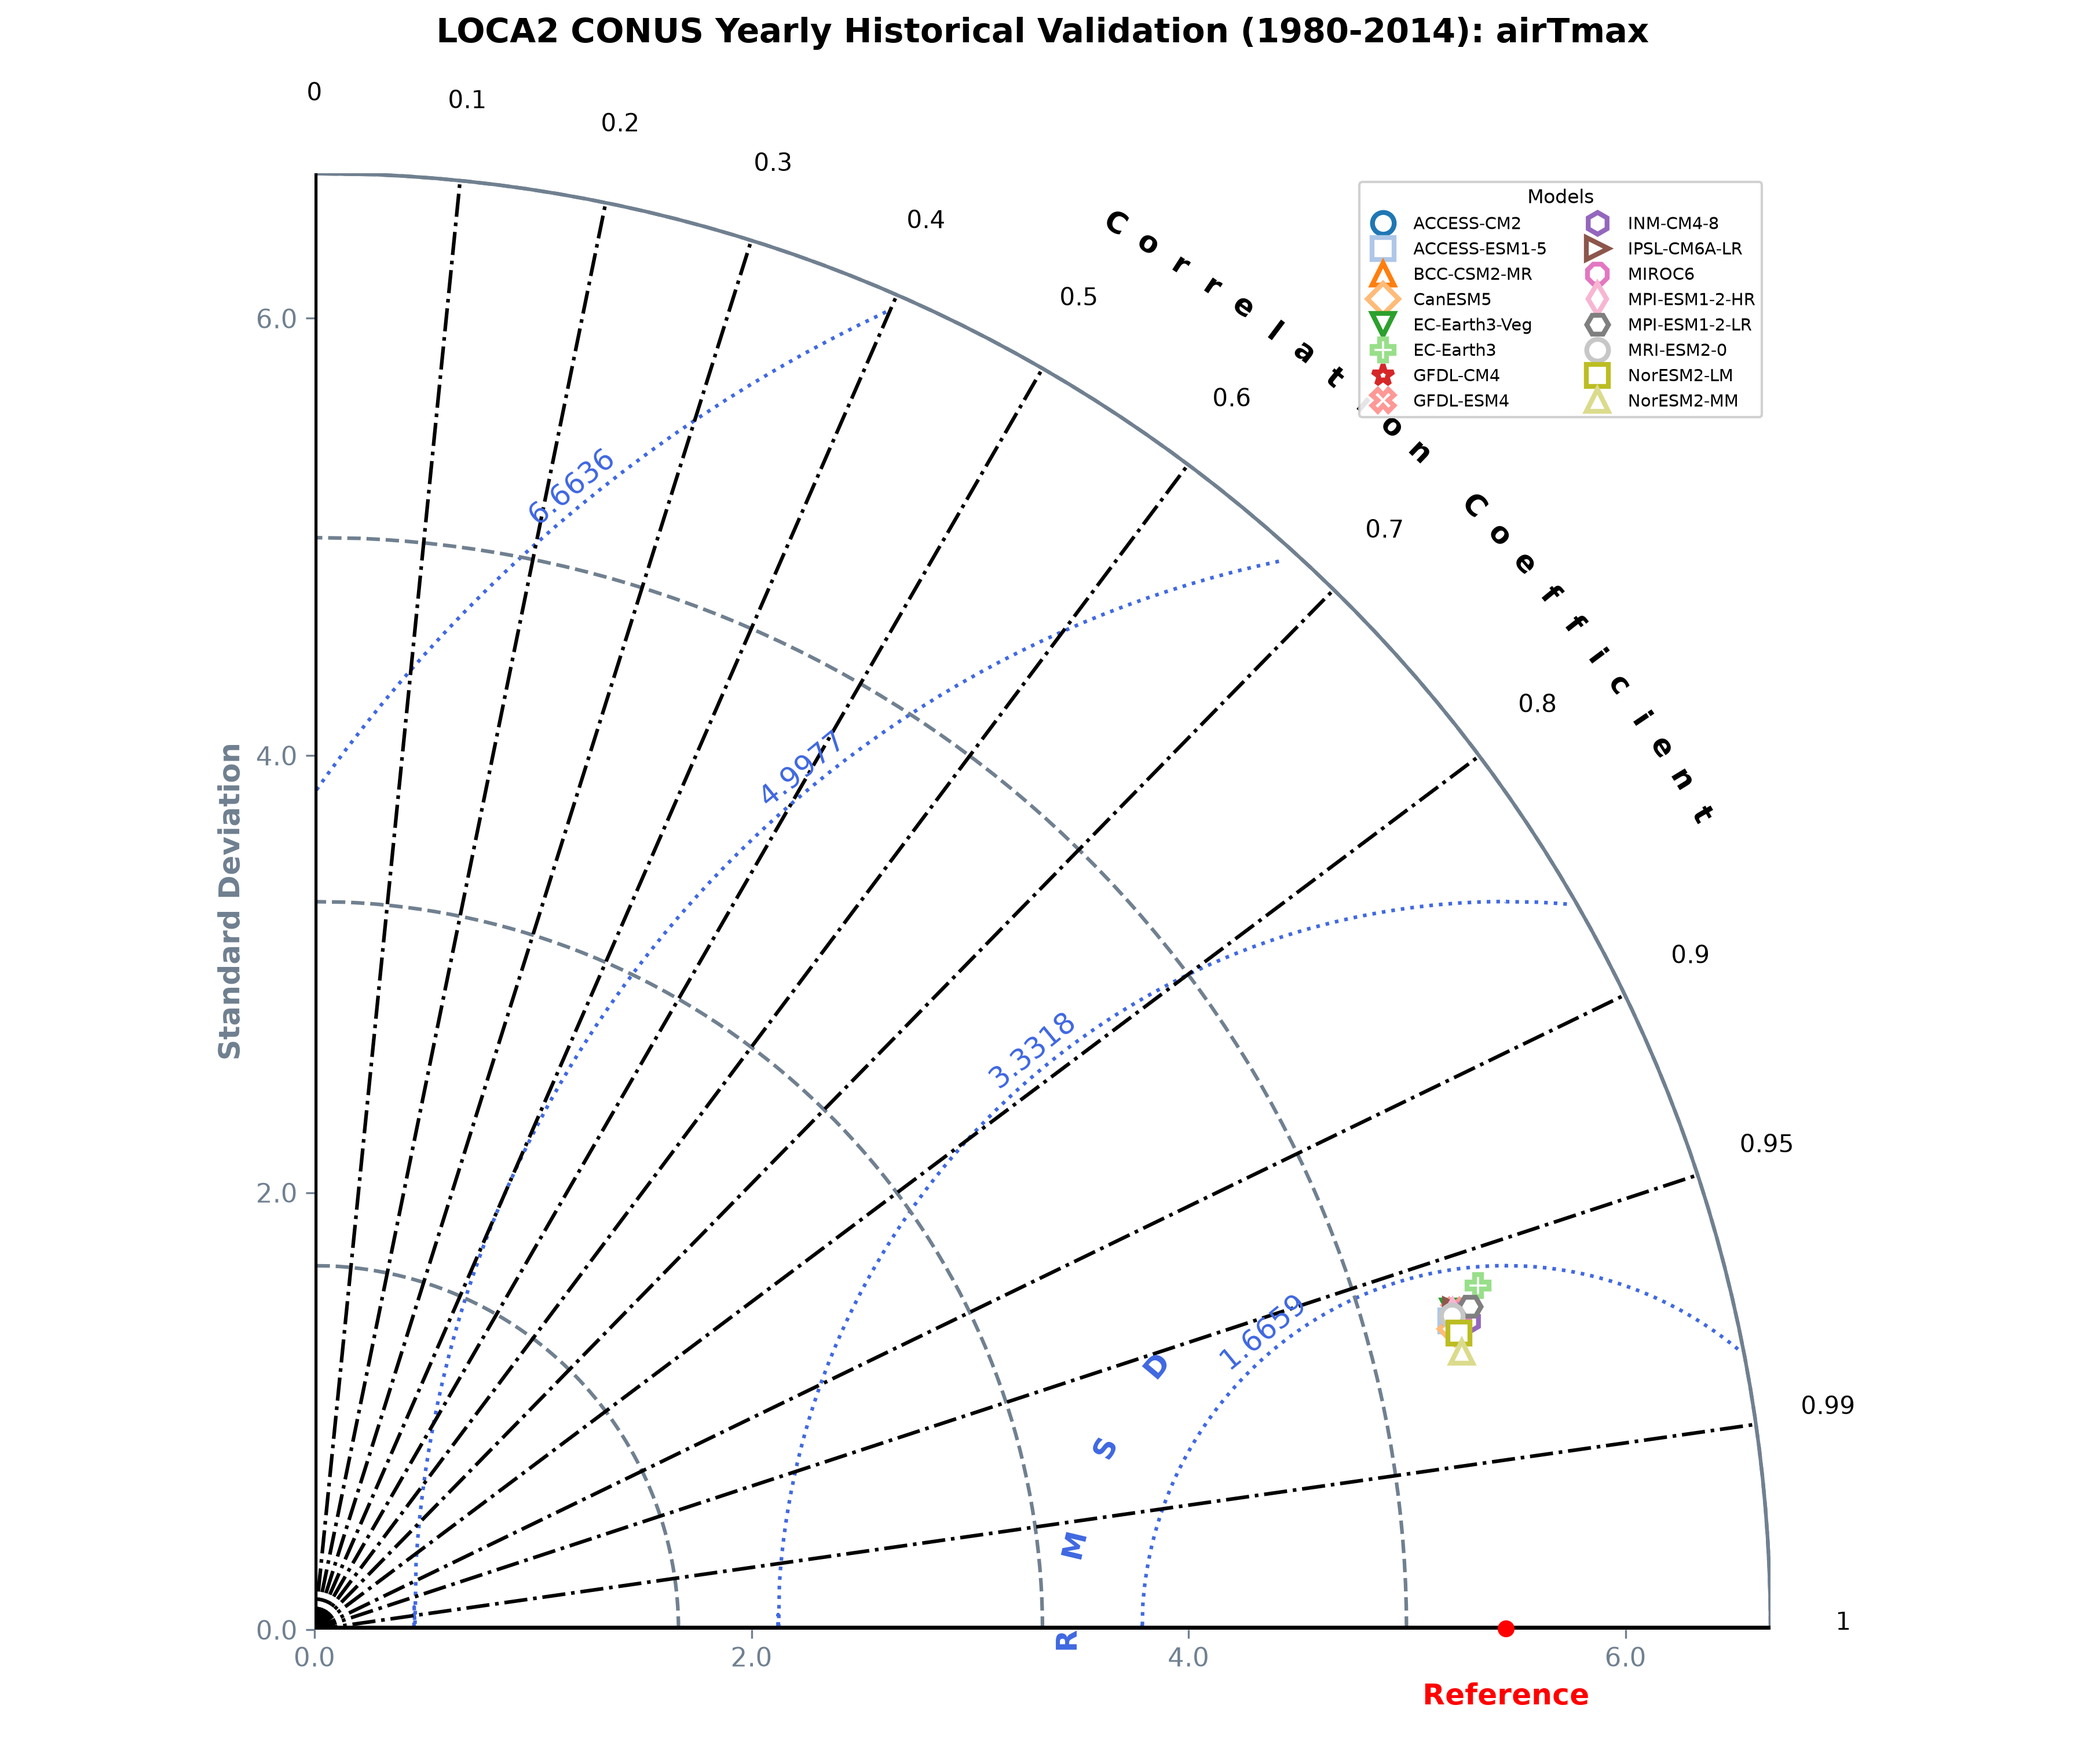
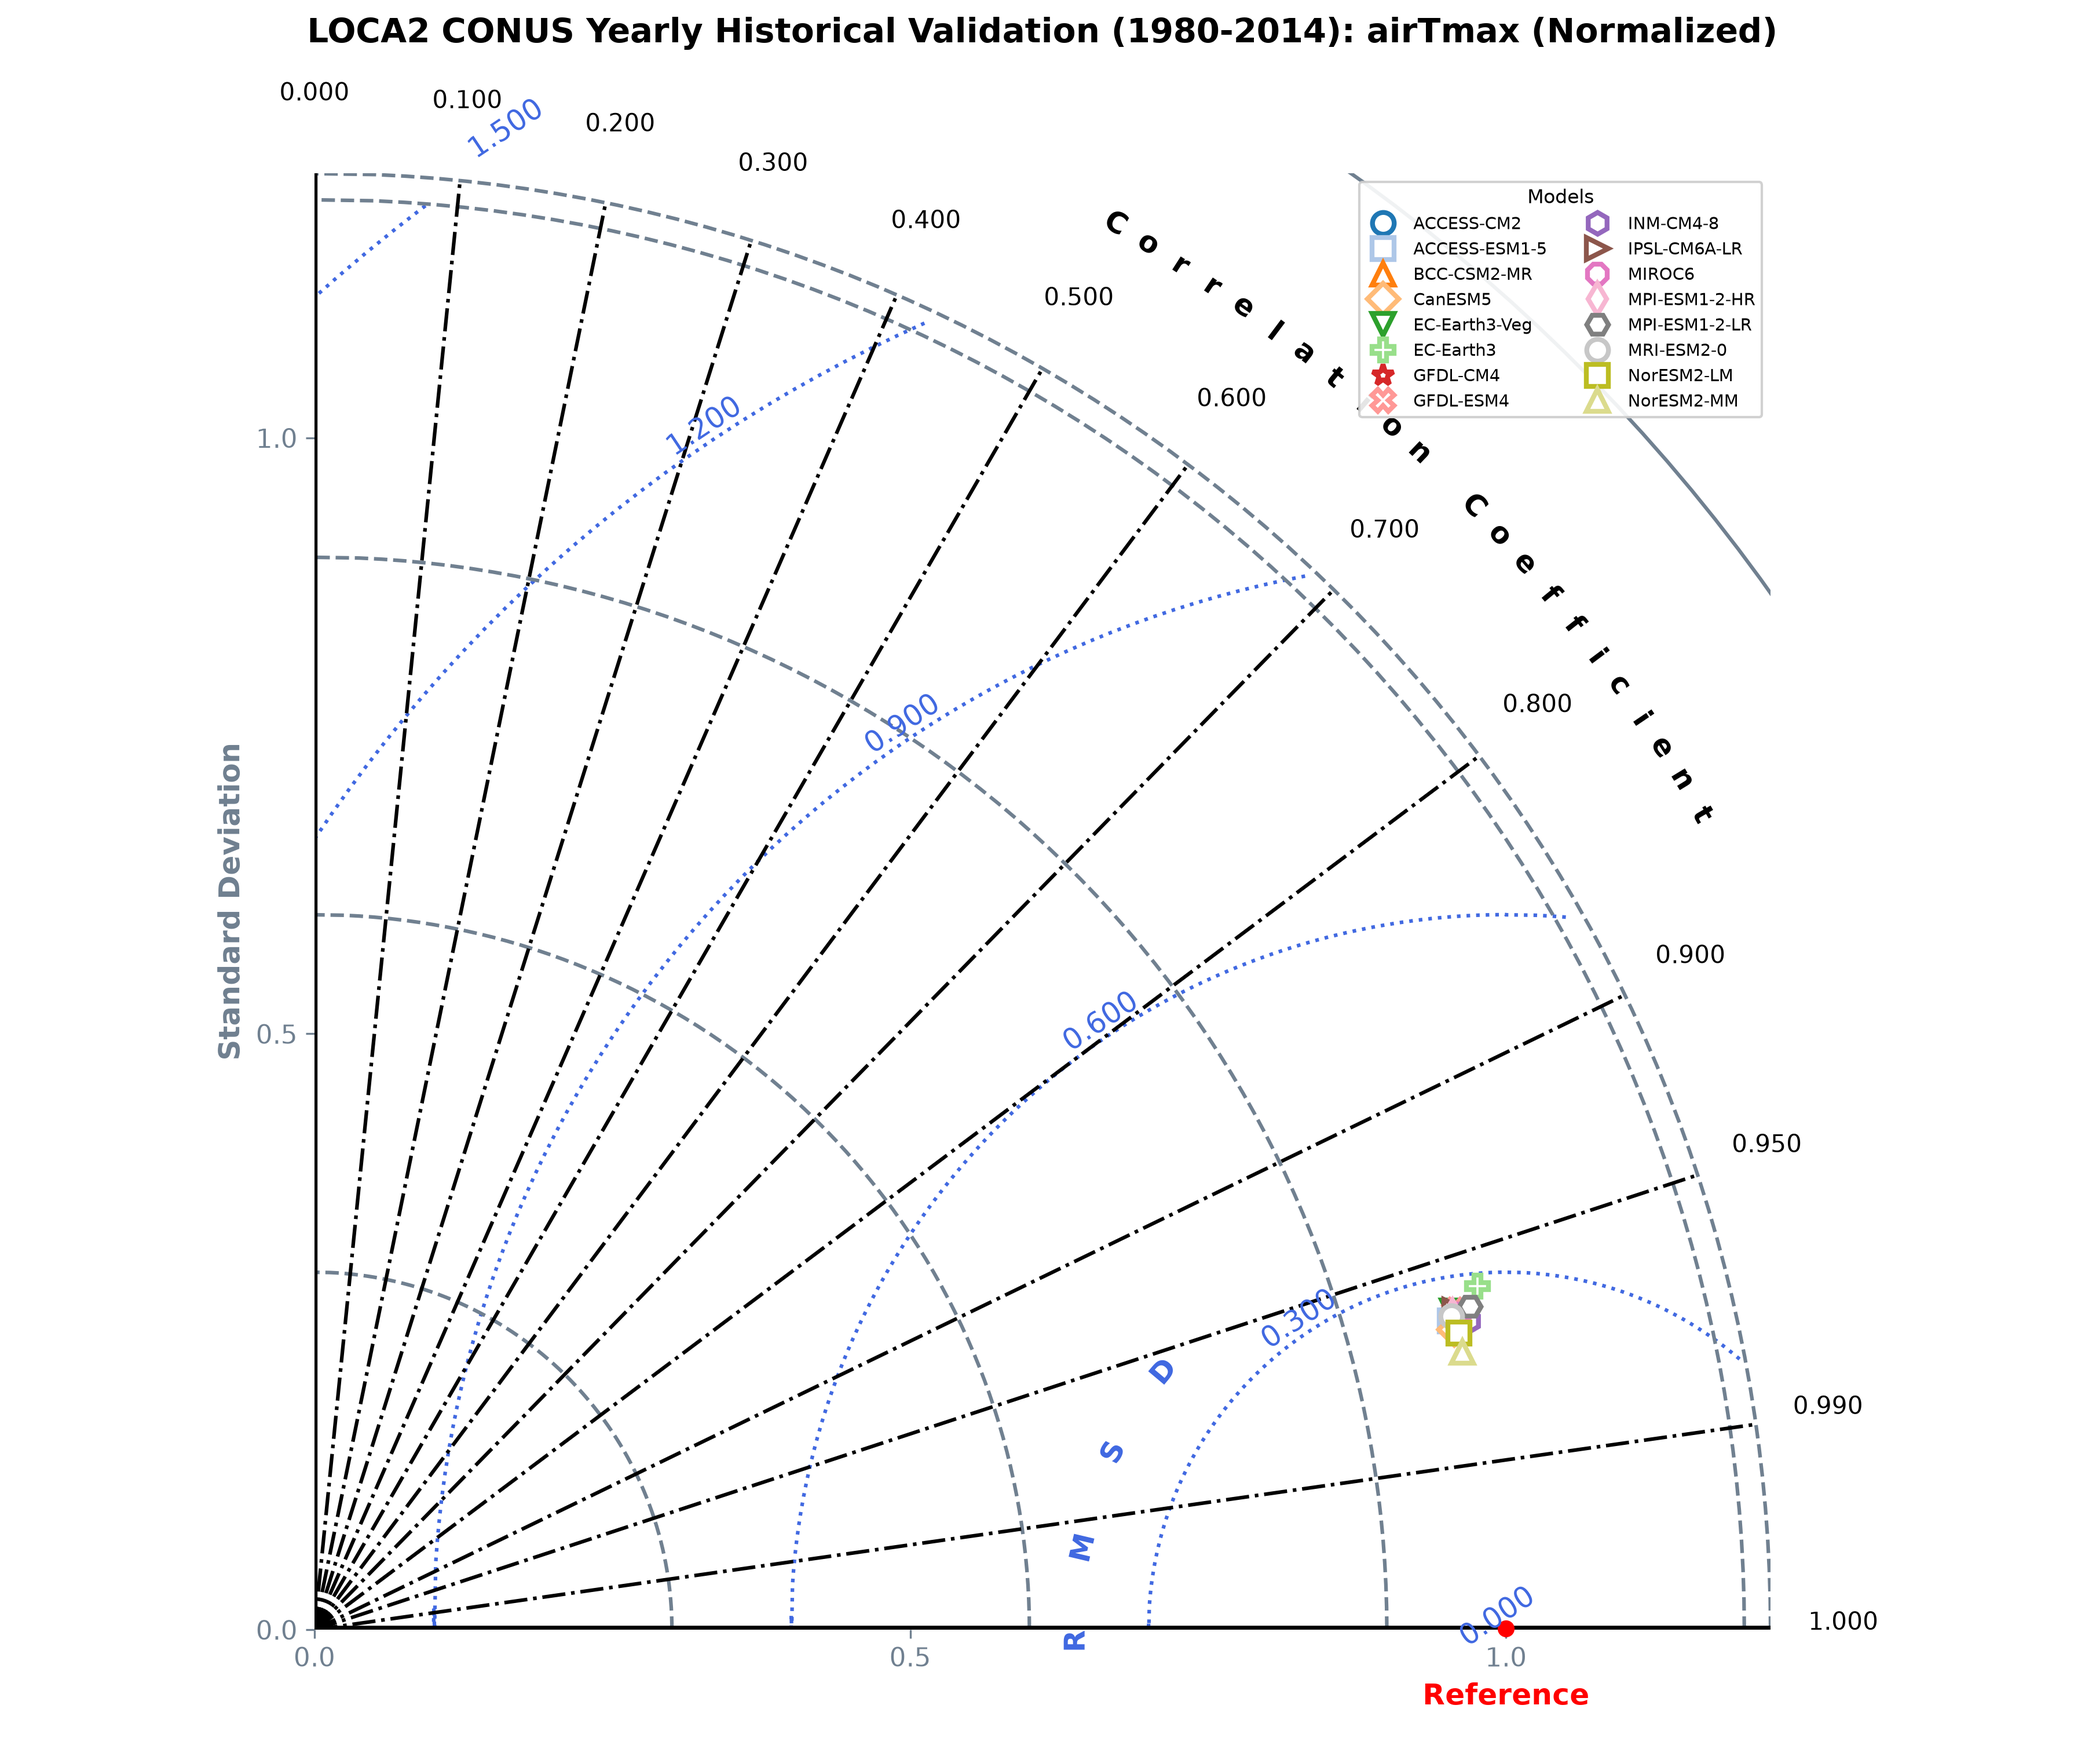
Normalized sdev/CRMSE to the observed sdev for CONUS Taylor diagrams

diff --git a/conus_yearly_taylor_diagrams.py b/conus_yearly_taylor_diagrams.py
@@ -113,7 +113,7 @@ def clip_to_conus(da_or_ds, conus_geom, lat_name=None, lon_name=None, all_touche
 
 
 def normalize_precip_units(da, label):
-    # Express precipitation as a daily rate (mm/day), matching the
+    # Express precipitation as a daily rate (mm/day)
     units = da.attrs.get('units')
     sample_mean = float(da.isel(time=slice(0, 1)).mean(skipna=True))
     print(f"    [units check] {label}: units='{units}', sample monthly mean={sample_mean:.4f}")
@@ -134,8 +134,33 @@ def normalize_precip_units(da, label):
     return da
 
 
+def normalize_temp_units(da, label):
+    # Express temperature in degrees Celsius (Kelvin is the usual culprit)
+    units = da.attrs.get('units')
+    sample_mean = float(da.isel(time=slice(0, 1)).mean(skipna=True))
+    print(f"    [units check] {label}: units='{units}', sample monthly mean={sample_mean:.4f}")
+
+    kelvin_units = {'K', 'Kelvin', 'kelvin', 'degK', 'deg_K'}
+    celsius_units = {'degC', 'C', 'Celsius', 'celsius', 'deg_C', 'degree_Celsius'}
+    fahrenheit_units = {'degF', 'F', 'Fahrenheit', 'fahrenheit'}
+
+    if units in kelvin_units:
+        print(f"    [units check] {label}: converting Kelvin -> degC")
+        return da - 273.15
+    if units in fahrenheit_units:
+        print(f"    [units check] {label}: converting Fahrenheit -> degC")
+        return (da - 32) * (5.0 / 9.0)
+    if units in celsius_units:
+        print(f"    [units check] {label}: already degC, no conversion needed")
+        return da
+    if sample_mean > 100:
+        print(f"    [units check] {label}: units unlabeled but magnitude suggests Kelvin -> converting to degC")
+        return da - 273.15
+    return da
+
+
 def get_area_weights(da, lat_name=None):
-    # cos(latitude) area weights, broadcast to da's full shape.
+    # cos(latitude) area weights, broadcast to da's full shape
     if lat_name is None:
         lat_name = 'lat' if 'lat' in da.coords else 'latitude'
     w = np.cos(np.deg2rad(da[lat_name]))
@@ -164,6 +189,32 @@ def weighted_taylor_stats(t, r, w):
     crmsd = float(np.sqrt(max(sdev_t ** 2 + sdev_r ** 2 - 2 * sdev_t * sdev_r * pc, 0.0)))
 
     return float(sdev_t), float(sdev_r), pc, crmsd
+
+
+def make_nice_ticks(max_val, n_ticks=5, decimals=3):
+    # Evenly-spaced, cleanly-rounded ticks so STD/RMS gridlines and RMS arc
+    if max_val <= 0:
+        return np.array([0.0])
+    raw_step = max_val / n_ticks
+    magnitude = 10 ** np.floor(np.log10(raw_step))
+    nice_step = np.ceil(raw_step / magnitude) * magnitude
+    ticks = np.round(np.arange(0, nice_step * (n_ticks + 1), nice_step), decimals)
+    return ticks[ticks <= max_val * 1.3]
+
+
+def clean_numeric_text(ax, decimals=3):
+    # Reformat any numeric-looking text artist on the axes (tick labels AND
+    # inline contour/arc labels) to a fixed number of decimals
+    candidates = list(ax.texts) + list(ax.get_xticklabels()) + list(ax.get_yticklabels())
+    for text_obj in candidates:
+        txt = text_obj.get_text().strip()
+        if not txt:
+            continue
+        try:
+            val = float(txt)
+        except ValueError:
+            continue
+        text_obj.set_text(f"{val:.{decimals}f}")
 
 
 def aggregate_yearly(da, operation):
@@ -203,6 +254,8 @@ for var, operation in variables_config.items():
 
         if var == 'precip':
             livneh_da = normalize_precip_units(livneh_da, "Livneh")
+        elif var in ('airTmax', 'airTmin'):
+            livneh_da = normalize_temp_units(livneh_da, "Livneh")
 
         livneh_yearly = aggregate_yearly(livneh_da, operation)
 
@@ -229,8 +282,13 @@ for var, operation in variables_config.items():
     obs_wvar = np.sum(obs_weights_clean * (obs_clean - obs_wmean) ** 2) / obs_wsum
     baseline_sdev = float(np.sqrt(obs_wvar))
 
-    # initialize SkillMetrics tracking lists w/ baseline perfect score
-    sdev_list = [baseline_sdev]
+    if baseline_sdev == 0:
+        print(f"Livneh [{var}] has zero variance after CONUS clip; skipping Taylor diagram.")
+        continue
+
+    # normalized diagram: everything is a ratio to the obs std dev, so the
+    # reference point is exactly 1.0 and all three variables share a scale
+    sdev_list = [1.0]
     crmsd_list = [0.0]
     cc_list = [1.0]
 
@@ -251,6 +309,8 @@ for var, operation in variables_config.items():
 
                 if var == 'precip':
                     model_da_raw = normalize_precip_units(model_da_raw, name)
+                elif var in ('airTmax', 'airTmin'):
+                    model_da_raw = normalize_temp_units(model_da_raw, name)
 
                 model_yearly = aggregate_yearly(model_da_raw, operation)
                 # clip the model grid to CONUS before regridding
@@ -285,15 +345,19 @@ for var, operation in variables_config.items():
             # (NCL taylor_stats.ncl equivalent)
             sdev, o_std, corr, crmsd = weighted_taylor_stats(m_clean, o_clean, w_clean)
 
-            sdev_list.append(round(sdev, 3))
-            crmsd_list.append(round(crmsd, 3))
+            # normalize to the obs std dev
+            sdev_norm = sdev / baseline_sdev
+            crmsd_norm = crmsd / baseline_sdev
+
+            sdev_list.append(round(sdev_norm, 3))
+            crmsd_list.append(round(crmsd_norm, 3))
             cc_list.append(round(corr, 3))
             active_models.append(name)
 
-            print(f"  Model: {name:<15} | Corr: {corr:.3f} | CRMSE: {crmsd:.3f}")
+            print(f"  Model: {name:<15} | Corr: {corr:.3f} | CRMSE(norm): {crmsd_norm:.3f} | SDEV(norm): {sdev_norm:.3f}")
 
-            if crmsd < lowest_error:
-                lowest_error = crmsd
+            if crmsd_norm < lowest_error:
+                lowest_error = crmsd_norm
                 best_model = name
 
         except Exception as e:
@@ -306,6 +370,10 @@ for var, operation in variables_config.items():
         crmsds = np.array(crmsd_list)
         ccs = np.array(cc_list)
 
+        axis_max = float(np.round(np.max(sdevs) * 1.2, 3))
+        std_ticks = make_nice_ticks(axis_max, n_ticks=5, decimals=3)
+        rms_ticks = make_nice_ticks(axis_max, n_ticks=5, decimals=3)
+
         fig = plt.figure(figsize=(12, 10))
 
         markers_dict = {m: MODEL_STYLE[m] for m in active_models}
@@ -316,7 +384,9 @@ for var, operation in variables_config.items():
             markerObs='o',
             colObs='red',
             titleOBS='Reference',
-            axisMax=float(np.max(sdevs) * 1.2),
+            axisMax=axis_max,
+            tickSTD=std_ticks,
+            tickRMS=rms_ticks,
             colCOR='black',
             colRMS='RoyalBlue',
             colSTD='SlateGray',
@@ -324,6 +394,8 @@ for var, operation in variables_config.items():
             styleSTD='--')
 
         ax = plt.gca()
+        clean_numeric_text(ax, decimals=3)
+
         leg = ax.get_legend()
         handles = leg.legend_handles
         labels = [t.get_text() for t in leg.get_texts()]
@@ -332,7 +404,7 @@ for var, operation in variables_config.items():
         ax.legend(handles, labels, loc='upper right', fontsize=7,
                   ncol=2, framealpha=0.9, title='Models', title_fontsize=8)
 
-        plt.title(f'LOCA2 CONUS Yearly Historical Validation (1980-2014): {var}',
+        plt.title(f'LOCA2 CONUS Yearly Historical Validation (1980-2014): {var} (Normalized)',
                   y=1.08, fontsize=14, fontweight='bold')
         plt.tight_layout()
         output_plot = os.path.join(OUTPUT_DIR, f"conus_{var}_yearly_taylor.png")
